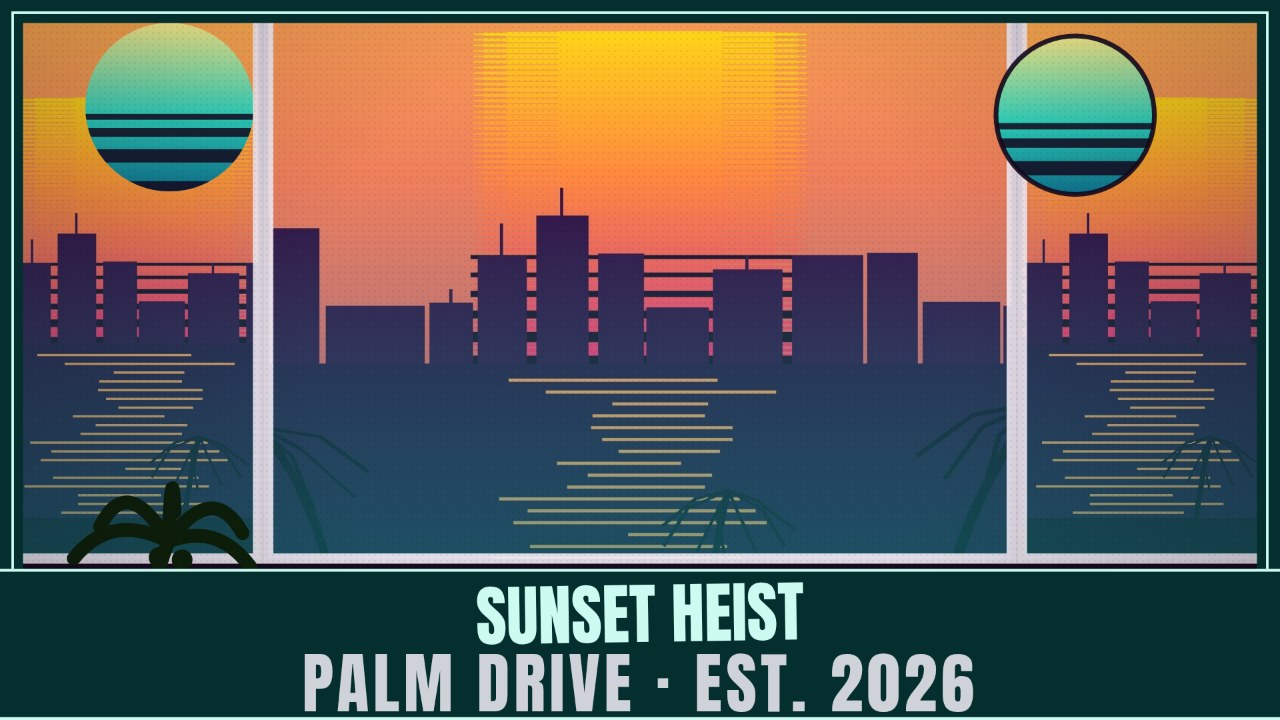
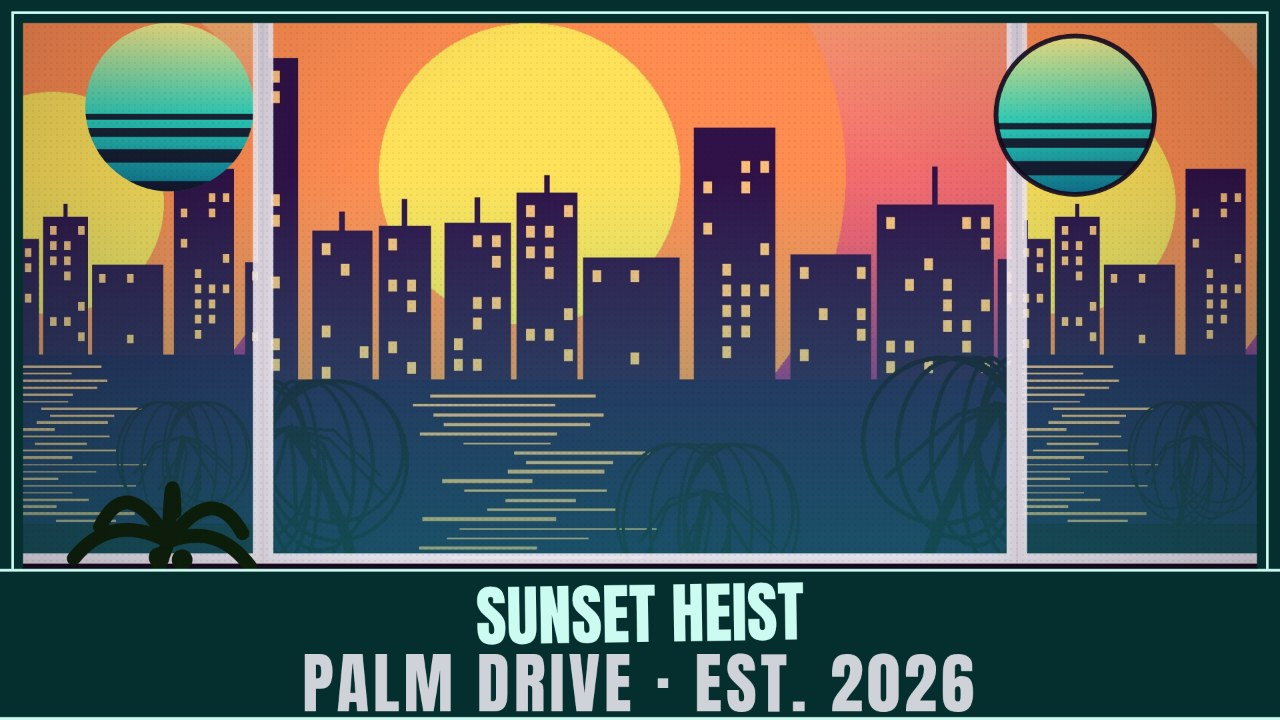
Rewrite unwitnessed assets in recorded session: new sample art, font refetch, README, serve.ts, shots.json, fresh screenshots

Changed region(s): [[0.0, 0.0306, 1.0, 0.7639], [0.9375, 0.0306, 1.0, 0.0611]]

diff --git a/serve.ts b/serve.ts
@@ -1,34 +1,39 @@
-// Serves app/ on http://localhost:8080 for local testing in desktop Chrome.
-// Node 22, standard library only. Run: node serve.ts
+// Tiny static server for Vice Poster Maker: serves the app/ folder on
+// http://localhost:8080 so you can try it in desktop Chrome.
+// Node 22, standard library only. Start it with: node serve.ts
 import { createServer } from 'node:http';
 import { readFile } from 'node:fs/promises';
 import { join, extname } from 'node:path';
 import { fileURLToPath } from 'node:url';
 
-const here = fileURLToPath(new URL('.', import.meta.url));
-const MIME = {
-  '.html': 'text/html; charset=utf-8',
-  '.css': 'text/css; charset=utf-8',
-  '.js': 'text/javascript; charset=utf-8',
-  '.mjs': 'text/javascript; charset=utf-8',
-  '.ttf': 'font/ttf',
-  '.jpg': 'image/jpeg',
-  '.jpeg': 'image/jpeg',
-  '.png': 'image/png',
-  '.txt': 'text/plain; charset=utf-8',
-};
+const root = fileURLToPath(new URL('.', import.meta.url));
+const PORT = Number(process.env.PORT ?? 8080);
+
+function contentType(file) {
+  switch (extname(file)) {
+    case '.html': return 'text/html; charset=utf-8';
+    case '.css': return 'text/css; charset=utf-8';
+    case '.js': return 'text/javascript; charset=utf-8';
+    case '.mjs': return 'text/javascript; charset=utf-8';
+    case '.ttf': return 'font/ttf';
+    case '.jpg': case '.jpeg': return 'image/jpeg';
+    case '.png': return 'image/png';
+    case '.txt': return 'text/plain; charset=utf-8';
+    default: return 'application/octet-stream';
+  }
+}
 
 const server = createServer(async (req, res) => {
-  const path = req.url.split('?')[0].replace(/^\//, '') || 'index.html';
-  const file = join(here, 'app', path);
+  const requested = (req.url ?? '/').split('?')[0].replace(/^\//, '');
+  const target = join(root, 'app', requested === '' ? 'index.html' : requested);
   try {
-    const data = await readFile(file);
-    res.writeHead(200, { 'content-type': MIME[extname(file)] ?? 'application/octet-stream' });
-    res.end(data);
+    const body = await readFile(target);
+    res.writeHead(200, { 'content-type': contentType(target) });
+    res.end(body);
   } catch {
     res.writeHead(404, { 'content-type': 'text/plain' });
     res.end('not found');
   }
 });
 
-server.listen(8080, () => console.log('Vice Poster Maker at http://localhost:8080'));
+server.listen(PORT, () => console.log(`Vice Poster Maker at http://localhost:${PORT}`));

diff --git a/README.md b/README.md
@@ -4,7 +4,7 @@
 [![rank](https://make.fun/badge/gta6-cover-art-01/Anggit98tkj/gta6-cover-art/rank.svg)](https://make.fun/bounty/gta6-cover-art-01/leaderboard?utm_source=github&utm_medium=readme&utm_campaign=gta6-cover-art-01)
 [![reward](https://make.fun/badge/gta6-cover-art-01/Anggit98tkj/gta6-cover-art/reward.svg)](https://make.fun/bounty/gta6-cover-art-01?utm_source=github&utm_medium=readme&utm_campaign=gta6-cover-art-01)
 
-Turn your own photos into a sun-soaked Vice City style poster without leaving the browser. Vice Poster Maker runs entirely on your machine: bring up to three pictures, arrange them in one of six panel layouts, tint them with one of five colour grades, add a frame, code-drawn stickers and a bold headline, then download the finished poster as a PNG. Five ready-made looks apply a full style in a single click, and a shuffle button plus keyboard shortcuts speed things up when you want to experiment. Your photos never leave your device, there is nothing to install or build, and the app uses no Rockstar artwork, logos or typefaces.
+Vice Poster Maker turns your photos into a bold poster in the style of a Vice City sunset, right in your browser. Load up to three of your own pictures, pick one of six panel arrangements, wash them in one of five colour grades, frame the result, drop in code-drawn stickers and a big headline, then save the finished poster as a PNG. Five one-click looks apply a whole style at once, a shuffle button and keyboard shortcuts make experimenting fast, and everything runs locally: your pictures never leave your machine, there is no build step, and the app ships no Rockstar artwork, logos or fonts.
 
 ## Run it
 
@@ -13,6 +13,14 @@ node serve.ts
 ```
 
 Then open http://localhost:8080 in a browser.
+
+## What it does
+
+- Six panel layouts, five colour grades, four frame styles, and code-drawn stickers
+- Five ready-made looks: Golden, Midnight, Pastel, Neon Nights, and Teal Morning
+- Exports 1080x1080, 1080x1350, or 1920x1080 PNGs, with the caption baked in
+- Shuffle button and keyboard shortcuts for fast experimenting
+- Works fully offline once loaded; no account, no uploads, no build step
 
 ---
 
